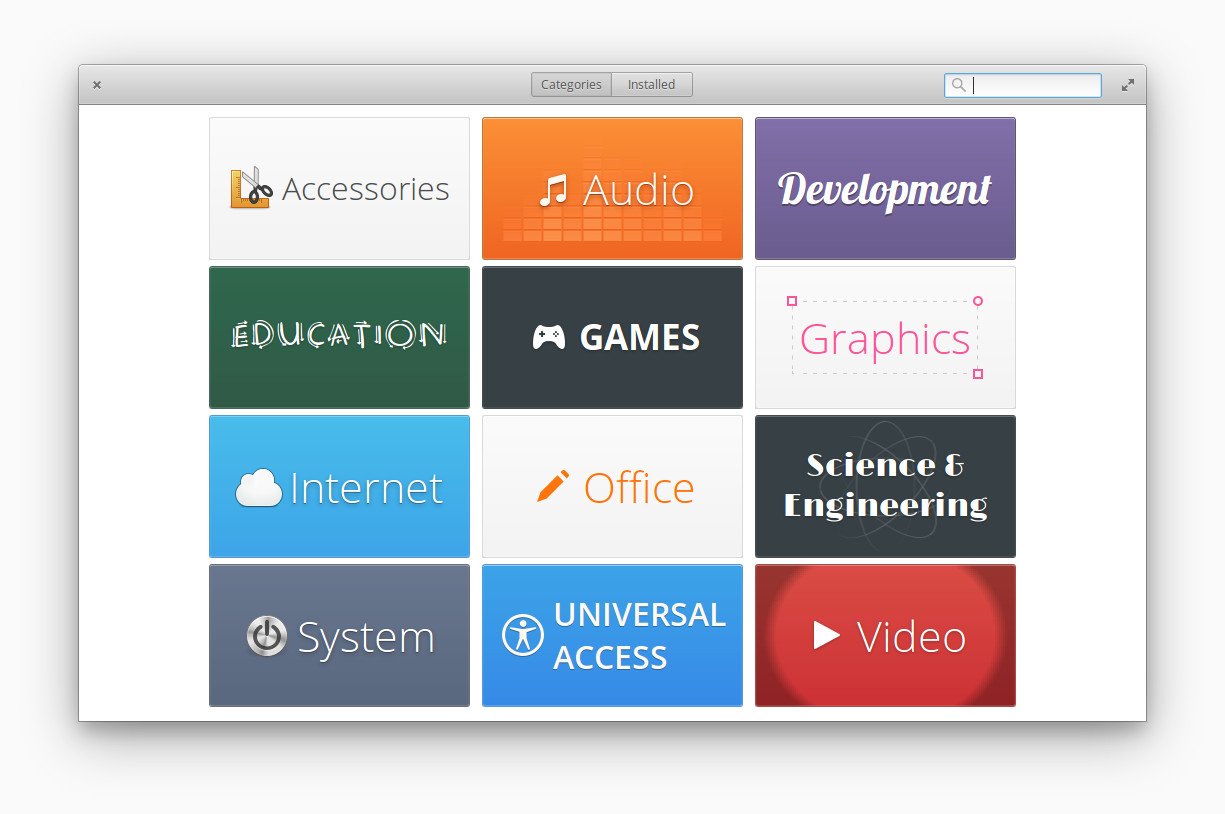
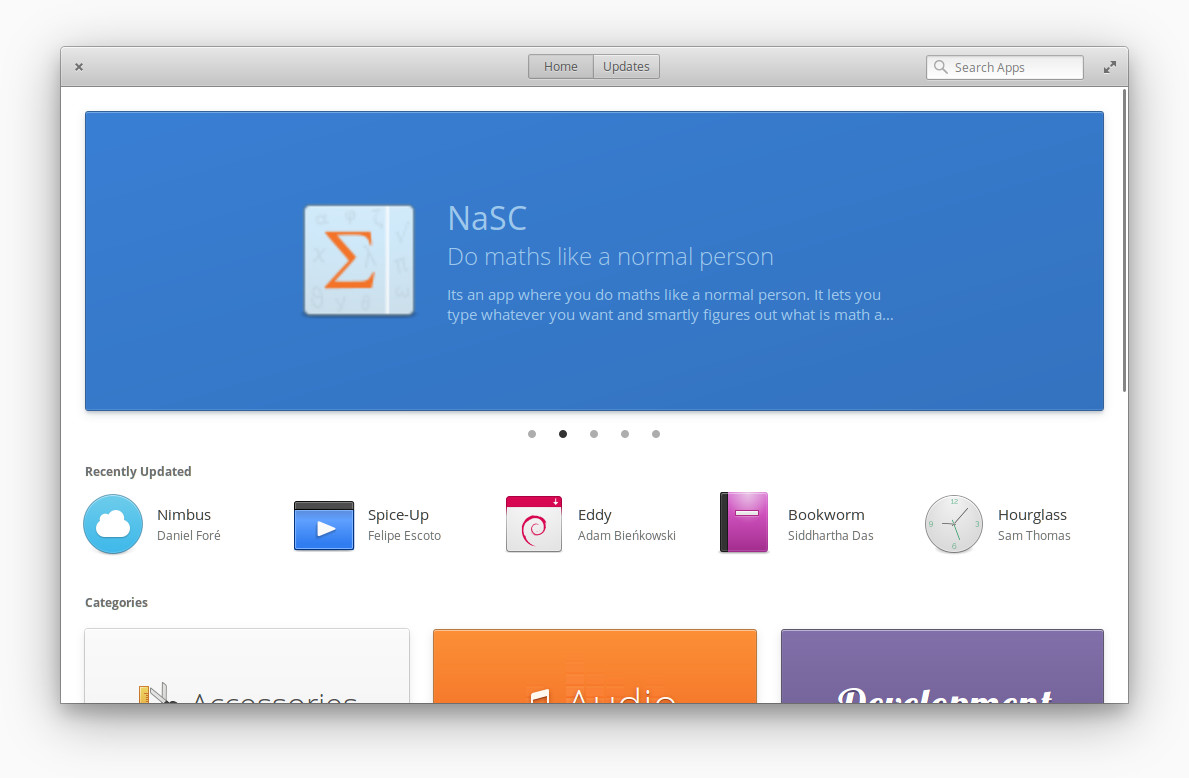
Update AppCenter screenshots and copy (#1699)
* Update Copy for AppCenter

* update @2x appcenter screenshot

* update screenshots

diff --git a/index.php b/index.php
@@ -83,7 +83,7 @@
                 <div class="app-display__description">
                     <img src="images/icons/apps/128/system-software-install.svg" />
                     <h2>The Indie, Open Source App Store</h2>
-                    <p>AppCenter delivers native, Open Source apps to elementary OS. Quickly discover new apps and easily update the ones you already have. And soon, support indie developers directly through pay-what-you-want purchases.</p>
+                    <p>AppCenter delivers native, Open Source apps to elementary OS. Quickly discover new apps and easily update the ones you already have. Plus, support indie developers directly through pay-what-you-want purchases.</p>
                     <p><a href="developer" class="read-more">Become a Developer</a></p>
 
                     <?php if (event_active('indiegogo appcenter 2/17')) { ?>
